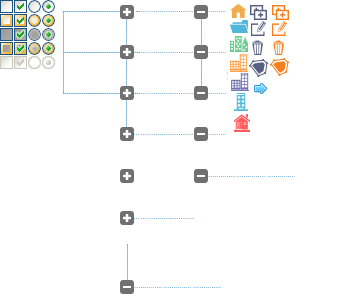
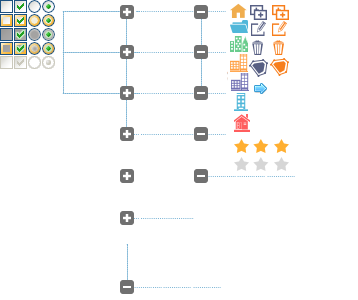
区域星级开发完成

diff --git a/buzmgt/src/main/webapp/static/js/region/regiontree.js b/buzmgt/src/main/webapp/static/js/region/regiontree.js
@@ -321,18 +321,151 @@ function addHoverDom(treeId, treeNode) {
 		return false;
 	});
 	/******************添加区域 end***************************************/
-	
 	if (treeNode.editNameFlag || $("#mapBtn_"+treeNode.tId).length>0) return;
-	var mapStr = "<span class='button map' id='mapBtn_" + treeNode.tId
-	+ "' title='绘制子区域地图' onfocus='this.blur();'></span>";
+	var mapStr = "<span class='button map' id='mapBtn_" + treeNode.tId + "' title='绘制子区域地图' onfocus='this.blur();'></span>";
 	sObj.after(mapStr);
 	var btn = $("#mapBtn_"+treeNode.tId);
 	if (btn) btn.bind("click", function(){
-		
 		window.location.href='/region/initRegionMap?regionName='+treeNode.name+"&parentid="+treeNode.id;
-				
+	});
+
+	getStars(treeNode,sObj);
+
+
+}
+
+
+  function getStars(treeNode,sObj) {
+	  <!--------------------------------区域星级end-------------------------------------->
+	  $.ajax({
+		  async : true, // 是否异步
+		  cache : false, // 是否使用缓存
+		  type : 'post', // 请求方式,post
+		  data : {
+			  id : treeNode.id
+		  },
+		  dataType : "text", // 数据传输格式
+		  url : "region/regionStarsLeave", // 请求链接
+		  error : function() {
+			  BootstrapDialog.alert("访问服务器出错");
+		  },
+
+		  success : function(data) {
+			  var regionid=treeNode.id;
+			  var starsOneclass="button starstwo";
+			  var starstwoclass="button starstwo";
+			  var starsthreeclass="button starstwo";
+
+			  var starsLevae = eval("(" + data + ")"); // 将string类型转换成json对象
+			  if(starsLevae===1){
+				  starsOneclass="button starsone";//一个实心的
+			  }
+			  if(starsLevae===2){
+				  starsOneclass="button starsone";
+				  starstwoclass="button starsone";
+			  }
+			  if(starsLevae===3){
+				  starsOneclass="button starsone";
+				  starstwoclass="button starsone";
+				  starsthreeclass="button starsone";
+			  }
+			  var classid=treeNode.tId+"";
+			  var starsthreeStr = "<span class='" + starsthreeclass + "' id='starsthreeBtn_" + treeNode.id + "' " +
+				  "title='三星' onclick='clickStars(3,"+regionid+")'></span>";
+			  $("#"+treeNode.tId+"_remove").after(starsthreeStr);
+
+			  var starstwoStr = "<span class='"+starstwoclass+"' id='starstwoBtn_" + treeNode.id
+				  + "' title='二星' onclick='clickStars(2,"+regionid+")'></span>";
+			  $("#"+treeNode.tId+"_remove").after(starstwoStr);
+
+			  var starsoneStr = "<span class='"+starsOneclass+"' id='starsoneBtn_" + treeNode.id + "' " +
+				  "title='一星' onclick='clickStars(1,"+regionid+")'></span>";
+			  $("#"+treeNode.tId+"_remove").after(starsoneStr);
+
+			  var whitespace = "<span class='button whitespace' id='whitespace" + treeNode.id
+				  + "' ></span>";
+			  $("#"+treeNode.tId+"_remove").after(whitespace);
+		  }
+	  });
+	  return false;
+  }
+
+  //点击星方法
+  function clickStars(flag,id){
+	  console.log(flag+"**"+id);
+	  var statsLevae;
+    if(flag===1){ //点击第一颗星
+		var towClass=$("#starstwoBtn_"+id+"").attr("class");
+		console.log(towClass);
+		if(towClass==='button starsone'){//实心的
+			alert("请先点击第二颗或者第三颗星");
+			return;
+		}else{//正常
+			var oneClass=$("#starsoneBtn_"+id+"").attr("class");
+			if(oneClass==='button starsone'){//判断1星当前状态 实心
+				statsLevae=0;
+			}else{
+				statsLevae=1;
+			}
+		}
+	}
+
+	  if(flag===2){ //点击第二颗星
+		  var oneClass=$("#starsoneBtn_"+id+"").attr("class");
+		  var threeClass=$("#starsthreeBtn_"+id+"").attr("class");
+		  console.log(towClass);
+		  if(oneClass==='button starsone'&&threeClass==='button starsone'){//实心的
+			  alert("请点击第三颗星");
+			  return;
+		  }else if(oneClass==='button starstwo'){//第一颗星是空的
+			  alert("请点击第一颗星");
+			  return;
+		  }else{//正常
+			  var twoClass=$("#starstwoBtn_"+id+"").attr("class");
+			  if(twoClass==='button starsone'){//判断2星当前状态 实心
+				  statsLevae=1;
+			  }else{
+				  statsLevae=2;
+			  }
+		  }
+	  }
+
+	  if(flag===3) { //点击第三颗星
+		  var towClass=$("#starstwoBtn_"+id+"").attr("class");
+		  if(towClass==='button starstwo'){//第二个是空的
+			  alert("请先点击第一颗或者第二颗星");
+			  return;
+		  }else{//正常
+			  var threeClass=$("#starsthreeBtn_"+id+"").attr("class");
+			  if(threeClass==='button starsone'){//判断3星当前状态 实心
+				  statsLevae=2;
+			  }else{
+				  statsLevae=3;
+			  }
+		  }
+	   }
+	  updateStarsLeave(statsLevae,id);
+  }
+
+/**
+ * 后台更改星级
+ */
+function  updateStarsLeave(statsLevae,id){
+	$.ajax({
+		async : true, // 是否异步
+		cache : false, // 是否使用缓存
+		type : 'post', // 请求方式,post
+		data : {
+			id : id,
+			statsLevae : statsLevae
+
+		},
+		dataType : "text", // 数据传输格式
+		url : "region/updateStarsLeave" // 请求链接
 	});
 }
+
+
 
 /**
  * 功能：用于当鼠标移出节点时，隐藏用户自定义控件，显示隐藏状态同 zTree 内部的编辑、删除按钮
@@ -347,6 +480,10 @@ function removeHoverDom(treeId, treeNode) {
 	$("#diyBtn_" + treeNode.id).unbind().remove();
 	$("#addBtn_" + treeNode.tId).unbind().remove();
 	$("#mapBtn_" + treeNode.tId).unbind().remove();
+	$("#starsoneBtn_" + treeNode.id).unbind().remove();
+	$("#starstwoBtn_" + treeNode.id).unbind().remove();
+	$("#starsthreeBtn_" + treeNode.id).unbind().remove();
+	$("#whitespace" + treeNode.id).unbind().remove();
 	$("#diyBtn_space_" +treeNode.id).unbind().remove();
 
 };
@@ -491,6 +628,7 @@ function onloadZTree() {
 		},
 		success : function(data) {
 			ztreeNodes = eval("(" + data + ")"); // 将string类型转换成json对象
+			console.log(data)
 			zNodes = zNodes.concat(ztreeNodes);
 			$.fn.zTree.init($("#treeDemo"), setting, zNodes);
 			rMenu = $("#rMenu");

diff --git a/buzmgt/src/main/webapp/static/zTree/css/zTreeStyle/zTreeStyle.css b/buzmgt/src/main/webapp/static/zTree/css/zTreeStyle/zTreeStyle.css
@@ -242,6 +242,31 @@
     vertical-align: top;
 }
 
+
+.ztree li span.button.starsone {
+    background-position: -272px -140px;
+    margin-right: 2px;
+    vertical-align: top;
+}
+
+.ztree li span.button.starstwo {
+    background-position: -272px -157px;
+    margin-right: 2px;
+    vertical-align: top;
+}
+
+.ztree li span.button.whitespace {
+    background-position: -265px -180px;
+    margin-right: 2px;
+    vertical-align: top;
+}
+
+.ztree li span.button.starsthree {
+    background-position:-272px -157px;
+    margin-right: 2px;
+    vertical-align: top;
+}
+
 .ztree li span.button.remove {
     background-position: -270px -41px;
     margin-right: 2px;

diff --git a/buzmgt/src/main/java/com/wangge/buzmgt/region/web/RegionController.java b/buzmgt/src/main/java/com/wangge/buzmgt/region/web/RegionController.java
@@ -1,28 +1,5 @@
 package com.wangge.buzmgt.region.web;
 
-import java.util.ArrayList;
-import java.util.Collection;
-import java.util.List;
-import java.util.Map;
-import java.util.regex.Matcher;
-import java.util.regex.Pattern;
-
-import javax.annotation.Resource;
-import javax.servlet.http.HttpServletRequest;
-
-import org.apache.log4j.Logger;
-import org.apache.shiro.SecurityUtils;
-import org.apache.shiro.subject.Subject;
-import org.springframework.beans.factory.annotation.Autowired;
-import org.springframework.http.HttpStatus;
-import org.springframework.http.ResponseEntity;
-import org.springframework.stereotype.Controller;
-import org.springframework.ui.Model;
-import org.springframework.web.bind.annotation.PathVariable;
-import org.springframework.web.bind.annotation.RequestMapping;
-import org.springframework.web.bind.annotation.RequestMethod;
-import org.springframework.web.bind.annotation.ResponseBody;
-
 import com.wangge.buzmgt.assess.entity.RegistData;
 import com.wangge.buzmgt.assess.service.AssessService;
 import com.wangge.buzmgt.region.entity.Region;
@@ -41,9 +18,29 @@ import com.wangge.buzmgt.teammember.service.ManagerService;
 import com.wangge.buzmgt.teammember.service.SalesManService;
 import com.wangge.buzmgt.util.RegionUtil;
 import com.wangge.json.JSONFormat;
-
 import net.sf.json.JSONArray;
 import net.sf.json.JSONObject;
+import org.apache.log4j.Logger;
+import org.apache.shiro.SecurityUtils;
+import org.apache.shiro.subject.Subject;
+import org.springframework.beans.factory.annotation.Autowired;
+import org.springframework.http.HttpStatus;
+import org.springframework.http.ResponseEntity;
+import org.springframework.stereotype.Controller;
+import org.springframework.ui.Model;
+import org.springframework.web.bind.annotation.PathVariable;
+import org.springframework.web.bind.annotation.RequestMapping;
+import org.springframework.web.bind.annotation.RequestMethod;
+import org.springframework.web.bind.annotation.ResponseBody;
+
+import javax.annotation.Resource;
+import javax.servlet.http.HttpServletRequest;
+import java.util.ArrayList;
+import java.util.Collection;
+import java.util.List;
+import java.util.Map;
+import java.util.regex.Matcher;
+import java.util.regex.Pattern;
 
 @Controller
 @RequestMapping(value = "/region")
@@ -128,7 +125,28 @@ public class RegionController {
     }
     return new ResponseEntity<RegionTree>(RegionUtil.getRegionTree(newRegion), HttpStatus.OK);
   }
-  
+
+
+  /**
+   *
+   * @param id
+   * @return
+   */
+  @RequestMapping(value = "/regionStarsLeave", method = RequestMethod.POST)
+  @ResponseBody
+  public ResponseEntity<Integer> regionStarsLeave(String id) {
+    Region region = regionService.findListRegionbyid(id);
+    return new ResponseEntity<Integer>(region.getStarsLeave(), HttpStatus.OK);
+  }
+
+
+  @RequestMapping(value = "/updateStarsLeave", method = RequestMethod.POST)
+  public void updateStarsLeave(String id,int statsLevae) {
+    Region region = regionService.findListRegionbyid(id);
+    region.setStarsLeave(statsLevae);
+    regionService.saveRegion(region);
+  }
+
   /**
    * 
    * @Title: editRegion @Description: (这里用一句话描述这个方法的作用) @param @param
@@ -313,7 +331,7 @@ public class RegionController {
    * @author jiabin
    * @param id
    * @param flag
-   * @param request
+   * @param
    * @return
    * @since JDK 1.8
    */

diff --git a/buzmgt/src/main/java/com/wangge/buzmgt/region/repository/RegionRepository.java b/buzmgt/src/main/java/com/wangge/buzmgt/region/repository/RegionRepository.java
@@ -1,12 +1,11 @@
 package com.wangge.buzmgt.region.repository;
 
 
-import java.util.List;
-
-import org.springframework.data.jpa.repository.JpaRepository;
-
 import com.wangge.buzmgt.region.entity.Region;
 import com.wangge.buzmgt.region.entity.Region.RegionType;
+import org.springframework.data.jpa.repository.JpaRepository;
+
+import java.util.List;
 
 public interface RegionRepository extends JpaRepository<Region, String> {
 	public Region findById(String regionId);
@@ -15,6 +14,8 @@ public interface RegionRepository extends JpaRepository<Region, String> {
 	
 	public List<Region> findByParentId(String id);
 	
-	public List<Region> findByTypeOrderById(RegionType type); 
+	public List<Region> findByTypeOrderById(RegionType type);
+
+
 	
 }

diff --git a/buzmgt/src/main/java/com/wangge/buzmgt/region/vo/RegionTree.java b/buzmgt/src/main/java/com/wangge/buzmgt/region/vo/RegionTree.java
@@ -22,6 +22,9 @@ public class RegionTree {
 	
 	private String open;//默认打开
 
+
+	private int starsLevel;//星级
+
 	public String getId() {
 		return id;
 	}
@@ -84,6 +87,14 @@ public class RegionTree {
 		return iconClose;
 	}
 
+	public int getStarsLevel() {
+		return starsLevel;
+	}
+
+	public void setStarsLevel(int starsLevel) {
+		this.starsLevel = starsLevel;
+	}
+
 	public void setIconClose(String iconClose) {
 		this.iconClose = iconClose;
 	}
@@ -95,7 +106,6 @@ public class RegionTree {
 	public void setRegiontype(String regiontype) {
 		this.regiontype = regiontype;
 	}
-	
-	
-	
-}	
+
+
+}

diff --git a/buzmgt/src/main/java/com/wangge/buzmgt/util/RegionUtil.java b/buzmgt/src/main/java/com/wangge/buzmgt/util/RegionUtil.java
@@ -58,7 +58,9 @@ public class RegionUtil {
 		if(null!=region.getParent()){
 	    regionTree.setpId(region.getParent().getId());
 		}
-		
+
+		regionTree.setStarsLevel(region.getStarsLeave());
+
 		return regionTree;
 	}
 	
